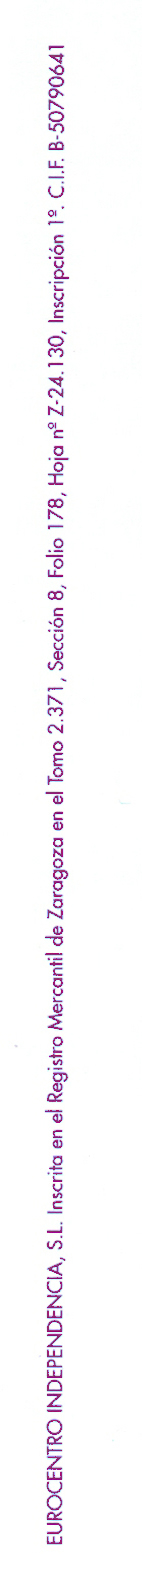
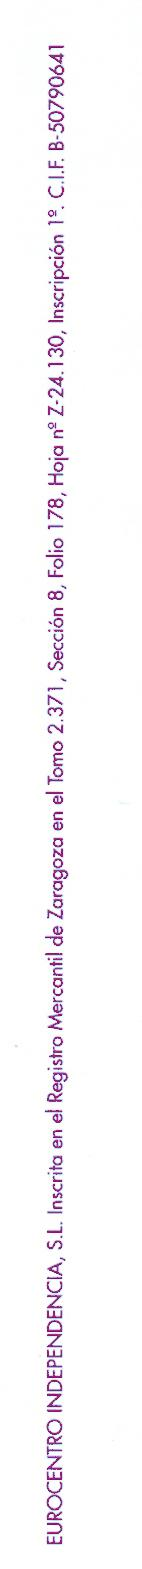
Modificados bordes de impresion de factura

Changed region(s): [[0.3099, 0.0312, 0.4789, 0.9994]]

diff --git a/rapido/facturapdf.php b/rapido/facturapdf.php
@@ -59,14 +59,14 @@ if((isset($_GET['factura'])) || (isset($_POST['factura']))) {
 	 * @todo Genera consumo alto revisar formato imagen
 	 * @var unknown_type
 	 */
-    $im = imagecreatefromjpeg("pie_n.jpg");
-	$pdf->addImage($im,0,0,600);
+    $im = imagecreatefromjpeg("pie_n1.jpg");
+	$pdf->addImage($im, 0, 15, 600);
 	/**
 	 * @todo Genera consumo alto revisar formato imagen
 	 * @var unknown_type
 	 */
-	$im = imagecreatefromjpeg("nif_n.jpg");
-	$pdf->addImage($im,0,200,33);
+	$im = imagecreatefromjpeg("nif_n1.jpg");
+	$pdf->addImage($im, 5, 115, 35);
 	$pdf->restoreState();
 	$pdf->closeObject();
 	$pdf->addObject( $all, 'all' );
